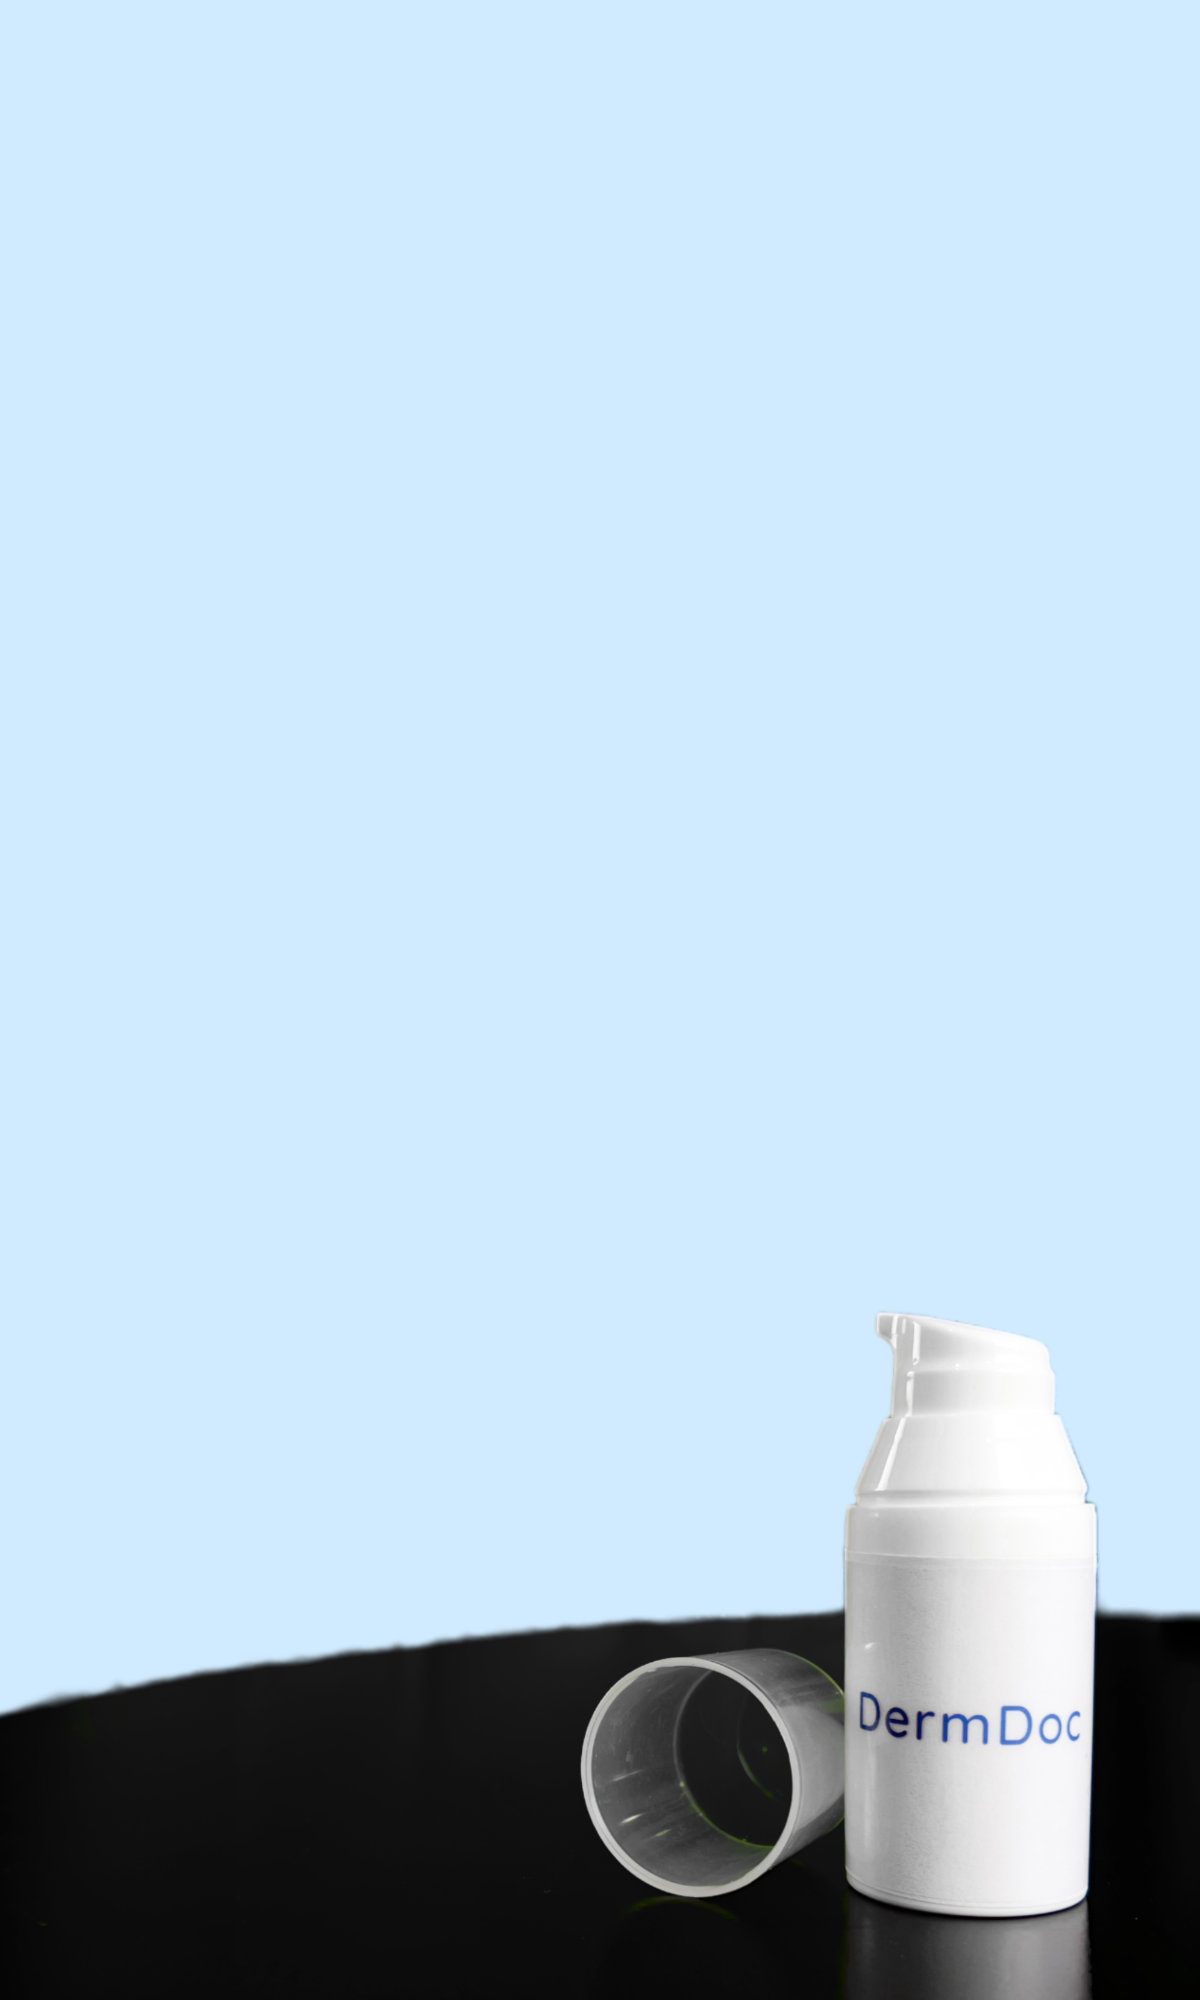
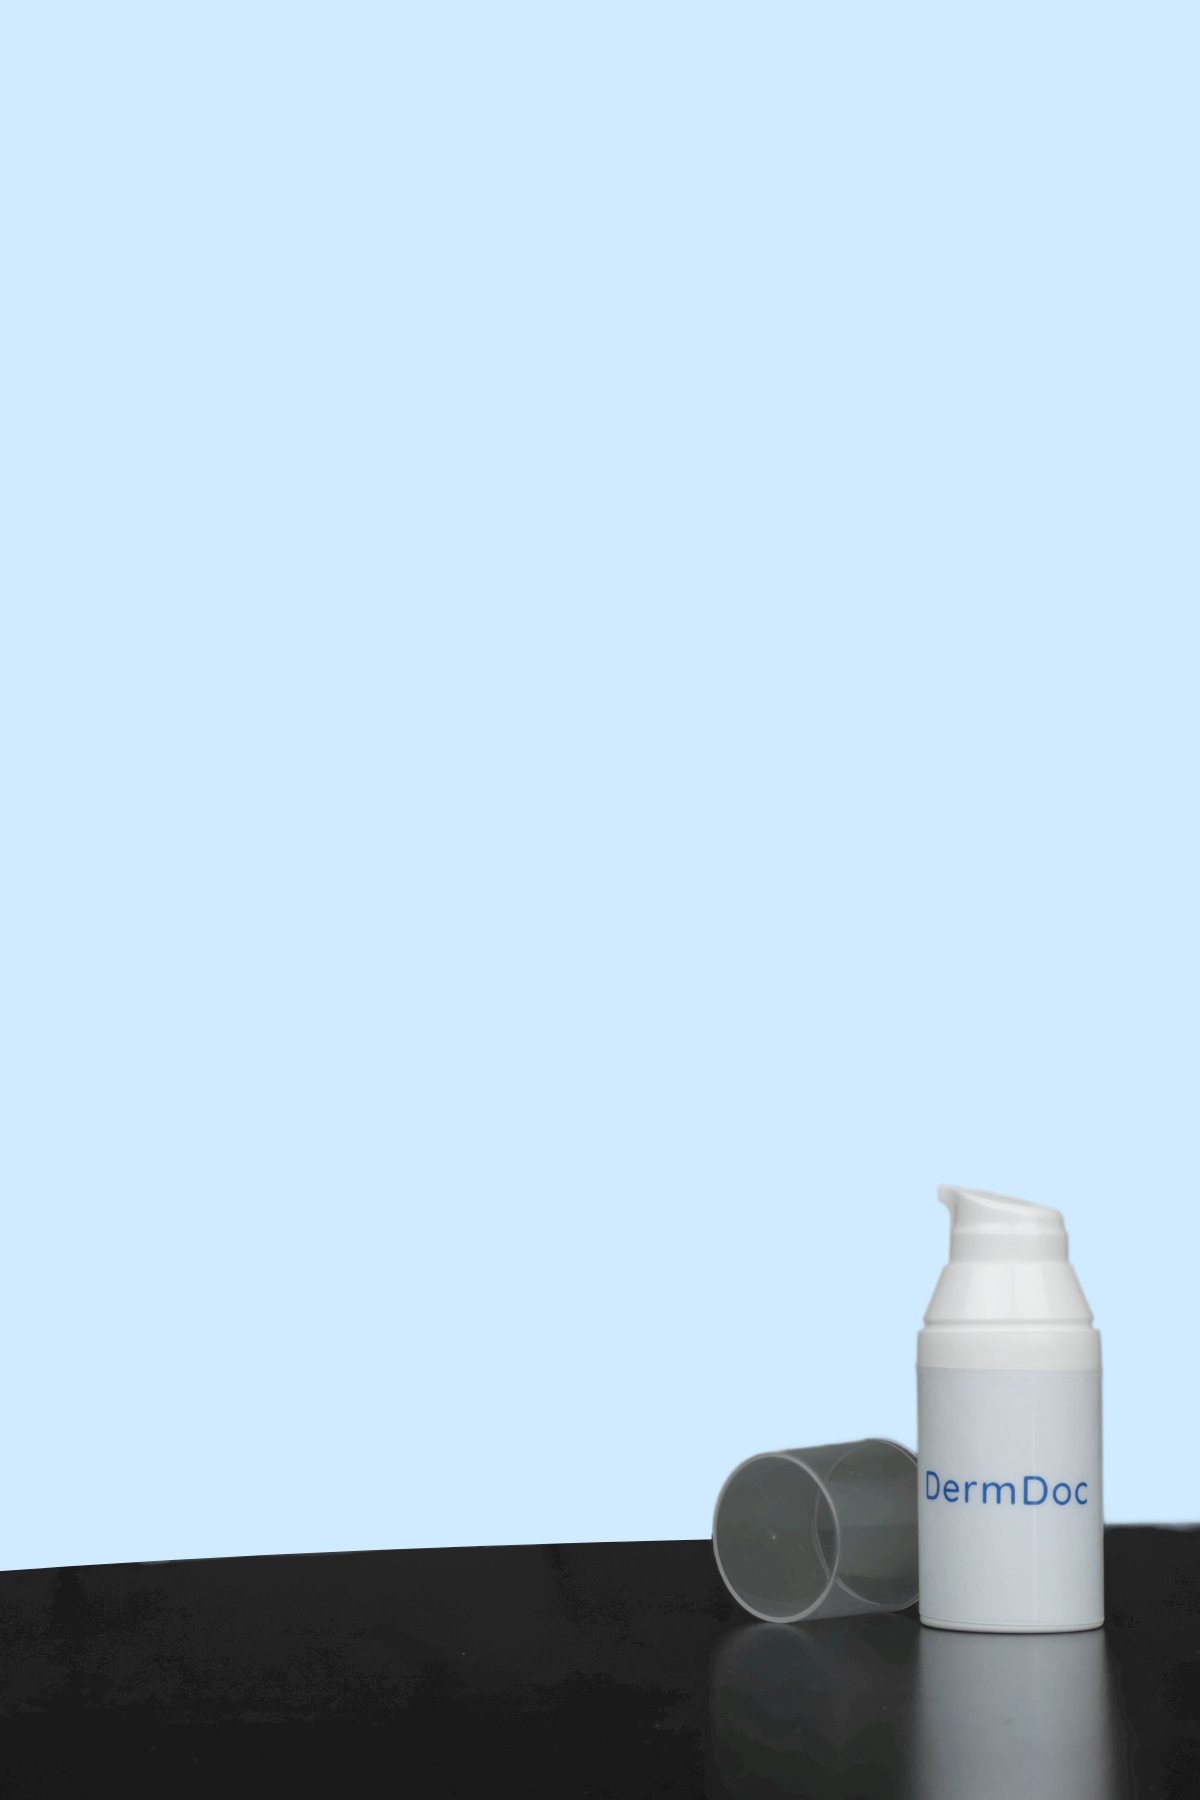
Update header bg image and plan img

Changed region(s): [[0.0, 0.6533, 1.0, 1.0]]

diff --git a/src/assets/css/main.css/main.css b/src/assets/css/main.css/main.css
@@ -902,15 +902,15 @@ strong {
 /* HERO SECTION */
 /***************************/
 .hero-container {
-  background-image: url(/src/assets/img/hero-img.jpg);
+  background-image: linear-gradient(rgba(208, 235, 255, 0), rgba(208, 235, 255, 0.15)), url(/src/assets/img/hero-img.jpg);
   background-size: cover;
   background-repeat: no-repeat;
   background-position: bottom right;
-  height: 130vh;
+  height: 105vh;
   background-attachment: scroll; }
 
 .section-hero {
-  padding: 9.6rem 0 4.8rem 0;
+  padding: 4.8rem 0 4.8rem 0;
   height: 100vh; }
 
 .hero {
@@ -968,7 +968,7 @@ strong {
 /***************************/
 .section-how {
   scroll-margin: 3.2rem;
-  padding: 9.6rem 0 3.2rem 0; }
+  padding: 4.8rem 0 4.8rem 0; }
 
 .feature-icon {
   position: relative;
@@ -1052,7 +1052,8 @@ strong {
   transform: rotate(45deg); }
 
 .plan-img {
-  width: 125%;
+  width: 100%;
+  height: 33%;
   object-fit: cover; }
 
 .plan-header {
@@ -1469,8 +1470,8 @@ input[type='number'] {
     /* 8px = 50% of 16px */
     font-size: 50%; }
   .hero-container {
-    background-image: url(/src/assets/img/hero-img-mobile.jpg);
-    background-position: top right;
+    background-image: linear-gradient(rgba(208, 235, 255, 0), rgba(208, 235, 255, 0.15)), url(/src/assets/img/hero-img-mobile.jpg);
+    background-position: bottom right;
     height: 100vh; }
   .hero {
     grid-template-columns: 1fr;

diff --git a/src/assets/sass/pages/_homepage.scss b/src/assets/sass/pages/_homepage.scss
@@ -3,16 +3,17 @@
 /***************************/
 
 .hero-container {
-  background-image: url(/src/assets/img/hero-img.jpg);
+  background-image: linear-gradient(rgba(208, 235, 255, 0), rgba(208, 235, 255, 0.15)),
+    url(/src/assets/img/hero-img.jpg);
   background-size: cover;
   background-repeat: no-repeat;
   background-position: bottom right;
-  height: 130vh;
+  height: 105vh;
   background-attachment: scroll;
 }
 
 .section-hero {
-  padding: 9.6rem 0 4.8rem 0;
+  padding: 4.8rem 0 4.8rem 0;
   height: 100vh;
 }
 
@@ -81,7 +82,7 @@
 
 .section-how {
   scroll-margin: 3.2rem;
-  padding: 9.6rem 0 3.2rem 0;
+  padding: 4.8rem 0 4.8rem 0;
 }
 
 .feature-icon {
@@ -181,7 +182,8 @@
 }
 
 .plan-img {
-  width: 125%;
+  width: 100%;
+  height: 33%;
   object-fit: cover;
 }
 

diff --git a/src/pages/homepage/homepage.page.jsx b/src/pages/homepage/homepage.page.jsx
@@ -16,8 +16,8 @@ import { connect } from 'react-redux';
 import { withRouter } from 'react-router-dom';
 import Cream1 from '../../assets/img/cream-1.jpeg';
 import Cream2 from '../../assets/img/cream-2.jpeg';
+import PricingHeader from '../../assets/img/pricing-img.jpg';
 import ProcessInfographic from '../../assets/img/pricing-infographic-lg.png';
-import PricingHeader from '../../assets/img/product-1.JPG';
 import CustomButton from '../../components/custom-button/custom-button.component';
 import Footer from '../../components/footer/footer.component';
 import Header from '../../components/header/header.component';

diff --git a/src/assets/sass/pages/_queries.scss b/src/assets/sass/pages/_queries.scss
@@ -82,8 +82,9 @@
   }
 
   .hero-container {
-    background-image: url(/src/assets/img/hero-img-mobile.jpg);
-    background-position: top right;
+    background-image: linear-gradient(rgba(208, 235, 255, 0), rgba(208, 235, 255, 0.15)),
+      url(/src/assets/img/hero-img-mobile.jpg);
+    background-position: bottom right;
     height: 100vh;
   }
 
